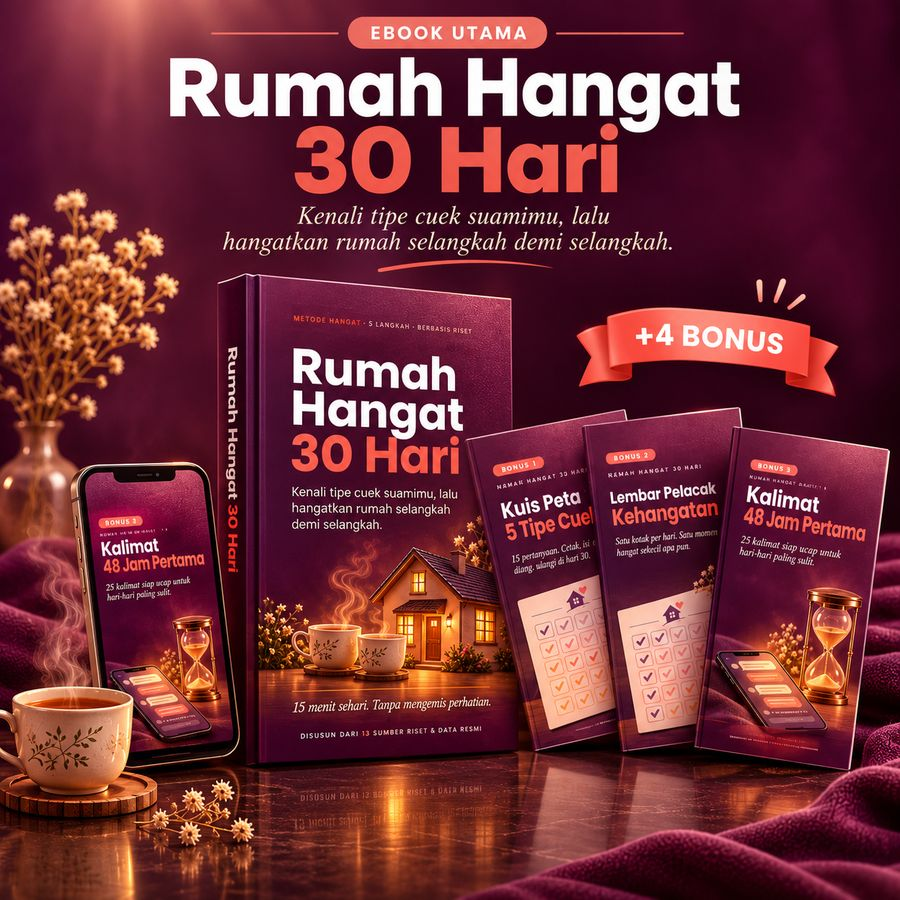
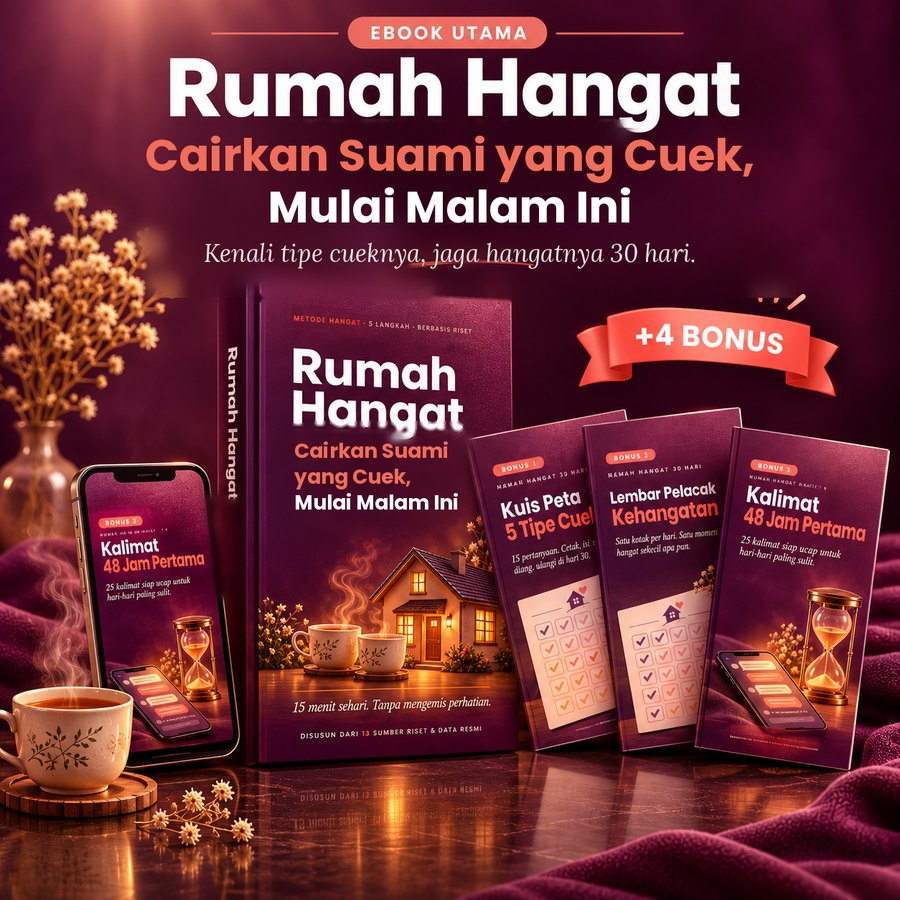
Judul baru: Rumah Hangat - Cairkan Suami yang Cuek, Mulai Malam Ini
Claude-Session: https://claude.ai/code/session_01K7EXyN1nb5rkpUatnouMGr

diff --git a/index.html b/index.html
@@ -3,11 +3,11 @@
 <head>
 <meta charset="utf-8">
 <meta name="viewport" content="width=device-width,initial-scale=1,viewport-fit=cover">
-<title>Rumah Hangat 30 Hari · Hangatkan lagi rumahmu tanpa mengemis perhatian</title>
-<meta name="description" content="Program 30 hari untuk istri yang suaminya cuek. Kenali tipe cuek suamimu, lalu jalani langkah kecil 15 menit sehari. Ebook PDF + 4 bonus.">
-<meta property="og:title" content="Rumah Hangat 30 Hari">
+<title>Rumah Hangat: Cairkan Suami yang Cuek, Mulai Malam Ini</title>
+<meta name="description" content="Untuk istri yang suaminya cuek: mulai malam ini, lalu jaga hangatnya dengan program 30 hari. Kenali tipe cuek suamimu, lalu jalani langkah kecil 15 menit sehari. Ebook PDF + 4 bonus.">
+<meta property="og:title" content="Rumah Hangat: Cairkan Suami yang Cuek, Mulai Malam Ini">
 <meta property="og:description" content="Kenali tipe cuek suamimu, lalu hangatkan rumah selangkah demi selangkah, tanpa mengemis perhatian.">
-<meta property="og:image" content="https://muhajir0909.github.io/rumah-hangat/og-image.jpg?v=4bonus">
+<meta property="og:image" content="https://muhajir0909.github.io/rumah-hangat/og-image.jpg?v=judul2">
 <meta property="og:url" content="https://muhajir0909.github.io/rumah-hangat/">
 <meta property="og:type" content="website">
 <meta name="theme-color" content="#2F1A29">
@@ -17,7 +17,7 @@
 <!-- Meta Pixel -->
 <script>
 !function(f,b,e,v,n,t,s){if(f.fbq)return;n=f.fbq=function(){n.callMethod?n.callMethod.apply(n,arguments):n.queue.push(arguments)};if(!f._fbq)f._fbq=n;n.push=n;n.loaded=!0;n.version='2.0';n.queue=[];t=b.createElement(e);t.async=!0;t.src=v;s=b.getElementsByTagName(e)[0];s.parentNode.insertBefore(t,s)}(window,document,'script','https://connect.facebook.net/en_US/fbevents.js');
-if(true){fbq('init','1662643061868493');fbq('track','PageView');fbq('track','ViewContent',{content_name:'Rumah Hangat 30 Hari',value:276000,currency:'IDR'});}
+if(true){fbq('init','1662643061868493');fbq('track','PageView');fbq('track','ViewContent',{content_name:'Rumah Hangat',value:276000,currency:'IDR'});}
 </script>
 <style>
 :root{--bg:#F8F1EE;--bg2:#F1E4E0;--card:#FFFFFF;--ink:#2E2A33;--muted:#6B6170;--pri:#4A2C40;--pri2:#2F1A29;--accent:#D9776B;--accent2:#F3C9C0;--line:rgba(74,44,64,.12)}
@@ -160,10 +160,10 @@ footer a{color:var(--pri)}
 <!-- 1. HERO -->
 <header class="hero" id="hero">
 <div class="wrap">
-<div class="eyebrow">Program 30 hari · Berbasis riset</div>
+<div class="eyebrow">Mulai malam ini · Berbasis riset</div>
 <h1>Dari perang dingin ke <em>rumah yang hangat</em> lagi, tanpa mengemis perhatian.</h1>
 <p class="sub">Bukan trik supaya dia takut kehilangan. Kenali dulu tipe cuek suamimu, lalu jalani langkah kecil yang tepat, 15 menit sehari.</p>
-<img class="cover" src="hero.jpg?v=4bonus" width="900" height="900" alt="Paket ebook Rumah Hangat 30 Hari beserta 4 bonus" fetchpriority="high">
+<img class="cover" src="hero.jpg?v=judul2" width="900" height="900" alt="Paket ebook Rumah Hangat: Cairkan Suami yang Cuek, Mulai Malam Ini, beserta 4 bonus" fetchpriority="high">
 <div class="heroprice"><div class="hp1"><s>Rp276.000</s><b>Rp69.000</b></div><div class="hp2">Pakai kode voucher <span class="hcode">CINTASUAMI</span></div><div class="hp3">Khusus 20 pembeli pertama hari ini</div></div>
 <a class="btn" data-buy href="https://lynk.id/halalberdua/eojrejn5xlk9/checkout">Mulai sekarang<small>Ebook + 4 bonus, langsung dikirim ke email</small></a>
 <a class="link2" href="#isi">Lihat isi paketnya dulu ↓</a>
@@ -244,7 +244,7 @@ footer a{color:var(--pri)}
 <section style="background:var(--bg2)">
 <div class="wrap">
 <div class="eyebrow rv">Perkenalkan</div>
-<h2 class="rv">Rumah Hangat 30 Hari</h2>
+<h2 class="rv">Rumah Hangat: Cairkan Suami yang Cuek, Mulai Malam Ini</h2>
 <p class="rv">Panduan harian untuk istri yang ingin menghangatkan kembali rumahnya, disusun dari 13 sumber riset hubungan suami istri dan data resmi. Bedanya dari panduan lain: <strong>kamu mengenali dulu tipe cuek suamimu</strong>, baru menjalani langkah yang sesuai.</p>
 <h3 class="rv" style="margin-top:22px">Empat tipe cuek, empat cara mendekat</h3>
 <p class="small muted rv">Kuisnya memetakan 5 tipe: empat tipe di bawah ini, ditambah satu tipe "tanda bahaya" yang perlu bantuan profesional.</p>
@@ -300,7 +300,7 @@ footer a{color:var(--pri)}
 <div class="eyebrow rv">Apa bedanya</div>
 <h2 class="rv">Bukan trik. <em>Langkah yang tepat.</em></h2>
 <table class="diff rv">
-<tr><th>Panduan pada umumnya</th><th>Rumah Hangat 30 Hari</th></tr>
+<tr><th>Panduan pada umumnya</th><th>Rumah Hangat</th></tr>
 <tr><td>Satu resep untuk semua suami</td><td>Kuis tipe dulu, lalu jalur sesuai tipenya</td></tr>
 <tr><td>Membuat suami "takut kehilangan"</td><td>Membangun kembali rasa aman dan kedekatan</td></tr>
 <tr><td>Teori panjang</td><td>Checklist harian dan kalimat siap ucap</td></tr>
@@ -328,7 +328,7 @@ footer a{color:var(--pri)}
 <div class="eyebrow rv">Siapa di balik ebook ini</div>
 <div class="card about rv"><div class="av">hb</div><div>
 <h3>halalberdua</h3>
-<p>halalberdua adalah brand panduan praktis dari ajircreator untuk urusan keluarga dan hidup sehari-hari. Kami bukan konselor pernikahan. Karena itu, isi Rumah Hangat 30 Hari tidak kami karang sendiri: setiap teknik di dalamnya disusun dari penelitian hubungan suami istri dan data resmi, dan ke-13 sumbernya kami cantumkan lengkap di akhir ebook supaya bisa kamu periksa sendiri.</p>
+<p>halalberdua adalah brand panduan praktis dari ajircreator untuk urusan keluarga dan hidup sehari-hari. Kami bukan konselor pernikahan. Karena itu, isi Rumah Hangat tidak kami karang sendiri: setiap teknik di dalamnya disusun dari penelitian hubungan suami istri dan data resmi, dan ke-13 sumbernya kami cantumkan lengkap di akhir ebook supaya bisa kamu periksa sendiri.</p>
 <p class="small muted">Kami menulisnya dengan satu pertanyaan di kepala: apa yang bisa dilakukan seorang istri malam ini, sendirian, tanpa harus membujuk siapa pun?</p>
 </div></div>
 </div>
@@ -365,7 +365,7 @@ footer a{color:var(--pri)}
 <div class="eyebrow rv">Yang kamu dapatkan</div>
 <h2 class="rv">Semua dalam satu paket</h2>
 <div class="stack rv">
-<div><span>Ebook Rumah Hangat 30 Hari · 39 halaman</span><span>Rp149.000</span></div>
+<div><span>Ebook Rumah Hangat · 39 halaman</span><span>Rp149.000</span></div>
 <div><span>Bonus 1 · Kuis Peta 5 Tipe Cuek</span><span>Rp49.000</span></div>
 <div><span>Bonus 2 · Kalimat 48 Jam Pertama</span><span>Rp49.000</span></div>
 <div><span>Bonus 3 · Lembar Pelacak Kehangatan</span><span>Rp29.000</span></div>
@@ -438,7 +438,7 @@ footer a{color:var(--pri)}
 <div class="wrap" style="text-align:center">
 <h2 class="rv">Malam ini kamu punya dua pilihan</h2>
 <p class="rv">Menunggu dia berubah sendiri, atau mulai dengan langkah kecil yang tepat untuk tipe suamimu.</p>
-<a class="btn rv" data-buy href="https://lynk.id/halalberdua/eojrejn5xlk9/checkout">Mulai Rumah Hangat 30 Hari<small>Rp69.000 dengan kode CINTASUAMI · khusus 20 pembeli pertama hari ini</small></a>
+<a class="btn rv" data-buy href="https://lynk.id/halalberdua/eojrejn5xlk9/checkout">Mulai Malam Ini<small>Rp69.000 dengan kode CINTASUAMI · khusus 20 pembeli pertama hari ini</small></a>
 </div>
 </section>
 
@@ -461,7 +461,7 @@ if(io){var o=new IntersectionObserver(function(es){es.forEach(function(e){if(e.i
 var s=document.getElementById('sticky'),h=document.getElementById('hero');
 if(io){new IntersectionObserver(function(es){s.classList.toggle('on',!es[0].isIntersecting)}).observe(h)}else{s.classList.add('on')}
 document.querySelectorAll('[data-copy]').forEach(function(b){b.addEventListener('click',function(){var t=b.getAttribute('data-copy');var done=function(){b.textContent='Tersalin ✓';setTimeout(function(){b.textContent='Salin kode'},2000)};var fb=function(){var i=document.createElement('textarea');i.value=t;document.body.appendChild(i);i.select();try{document.execCommand('copy');done()}catch(e){b.textContent=t}document.body.removeChild(i)};try{navigator.clipboard.writeText(t).then(done,fb)}catch(e){fb()}})});
-document.querySelectorAll('[data-buy]').forEach(function(b){b.addEventListener('click',function(){if(window.fbq)fbq('track','InitiateCheckout',{content_name:'Rumah Hangat 30 Hari',value:276000,currency:'IDR'})})});
+document.querySelectorAll('[data-buy]').forEach(function(b){b.addEventListener('click',function(){if(window.fbq)fbq('track','InitiateCheckout',{content_name:'Rumah Hangat',value:276000,currency:'IDR'})})});
 })();
 </script>
 </body>

diff --git a/terima-kasih.html b/terima-kasih.html
@@ -4,13 +4,13 @@
 <meta charset="utf-8">
 <meta name="viewport" content="width=device-width,initial-scale=1,viewport-fit=cover">
 <meta name="robots" content="noindex">
-<title>Terima kasih · Rumah Hangat 30 Hari</title>
+<title>Terima kasih · Rumah Hangat</title>
 <meta name="theme-color" content="#2F1A29">
 <link rel="preconnect" href="https://fonts.googleapis.com"><link rel="preconnect" href="https://fonts.gstatic.com" crossorigin>
 <link href="https://fonts.googleapis.com/css2?family=Lora:ital,wght@0,400;1,400&family=Poppins:wght@500;700&display=swap" rel="stylesheet">
 <script>
 !function(f,b,e,v,n,t,s){if(f.fbq)return;n=f.fbq=function(){n.callMethod?n.callMethod.apply(n,arguments):n.queue.push(arguments)};if(!f._fbq)f._fbq=n;n.push=n;n.loaded=!0;n.version='2.0';n.queue=[];t=b.createElement(e);t.async=!0;t.src=v;s=b.getElementsByTagName(e)[0];s.parentNode.insertBefore(t,s)}(window,document,'script','https://connect.facebook.net/en_US/fbevents.js');
-if(true){fbq('init','1662643061868493');fbq('track','PageView');var oid=new URLSearchParams(location.search).get('order_id');fbq('track','Purchase',{content_name:'Rumah Hangat 30 Hari',value:69000,currency:'IDR'},oid?{eventID:oid}:{});}
+if(true){fbq('init','1662643061868493');fbq('track','PageView');var oid=new URLSearchParams(location.search).get('order_id');fbq('track','Purchase',{content_name:'Rumah Hangat',value:69000,currency:'IDR'},oid?{eventID:oid}:{});}
 </script>
 <style>
 :root{--bg:#F8F1EE;--ink:#2E2A33;--muted:#6B6170;--pri:#4A2C40;--accent:#D9776B;--line:rgba(74,44,64,.12)}
@@ -32,7 +32,7 @@ ol li{margin-bottom:10px}
 <div class="wrap">
 <div class="seal"><svg viewBox="0 0 24 24" fill="none" stroke-width="2"><path d="M5 12.5l4.5 4.5L19 7.5"/></svg></div>
 <h1>Terima kasih, pembelianmu berhasil</h1>
-<p class="c">Selamat datang di Rumah Hangat 30 Hari. Langkah pertamamu dimulai malam ini.</p>
+<p class="c">Selamat datang di Rumah Hangat. Langkah pertamamu dimulai malam ini.</p>
 <ol>
 <li><strong>Cek email</strong> yang kamu isi saat checkout. Link unduhan biasanya masuk dalam beberapa menit. Periksa juga folder Spam atau Promosi.</li>
 <li><strong>Unduh dan simpan</strong> ebook dan keempat bonus di HP supaya mudah dibuka kapan saja.</li>
